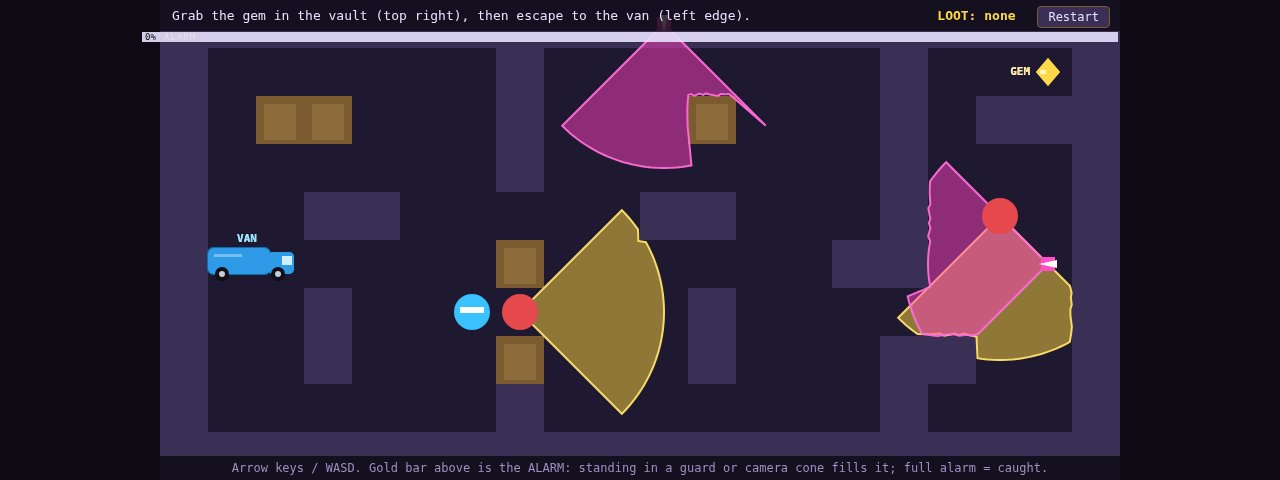
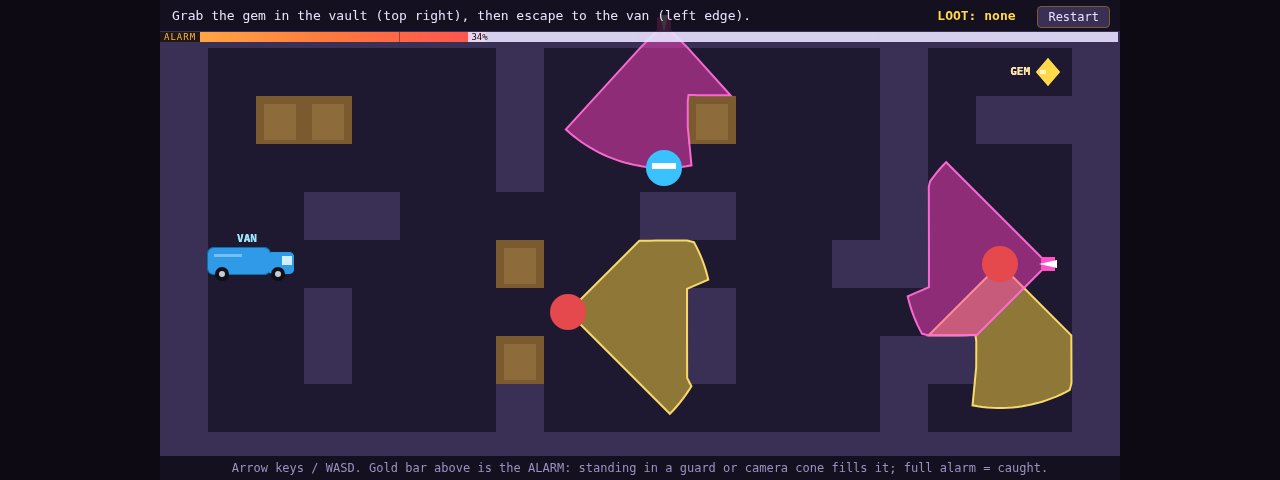
Heist entry: supercover LOS (wall-corner sightlines blocked), 2-play alarm frame at 34% in camera cone, win overlay click-through

diff --git a/game/game.js b/game/game.js
@@ -61,9 +61,8 @@
   // row 6 (the middle corridor); guard 1 loops the right chamber.
   // Each guard's start facing (set in reset()) points down an open
   // stretch, so its cone reads as a full fan in every screenshot.
-  // The play shot runs 13 successful moves (2 of its 15 scripted moves
-  // are blocked by a wall), so both routes are tuned so the guards show
-  // a full fan after exactly 13 steps without spotting the player.
+  // The play shot runs 14 successful moves; the guards end mid-patrol
+  // with full fans, and the thief ends inside the top camera's cone.
   var guards = [
     { wx: [4, 9], wy: [6, 6], idx: 0, x: 4, y: 6, dir: 'right' },
     { wx: [17, 18, 17], wy: [3, 3, 7], idx: 0, x: 17, y: 3, dir: 'down' }
@@ -102,15 +101,56 @@ function reset(keepStatus) {
   }
 
   // Vision cone: for watcher at (wx,wy) facing cardinal dir, return set of cone tile keys.
-  function lineBlocked(x0, y0, x1, y1) {
-    var dx = Math.sign(x1 - x0), dy = Math.sign(y1 - y0);
-    var cx = x0, cy = y0;
-    while (cx !== x1 || cy !== y1) {
-      if (cx !== x0 || cy !== y0) { if (blocksLOS(cx, cy)) return true; }
-      if (cx !== x1) cx += dx;
-      if (cy !== y1) cy += dy;
+  // Supercover line of sight, shared by detection (lineBlocked) and the
+  // drawn fan (rayEnd) so the two agree by construction. walkLOS walks a
+  // ray cell by cell (Amanatides-Woo DDA) from (px,py) along (dx,dy) up to
+  // maxDist tile units; visit(cells, t) gets the cells entered at each
+  // step -- one cell, or three at an exact grid corner (the two side cells
+  // plus the diagonal cell). A wall/crate touching the line at a corner
+  // blocks sight, which the old diagonal-only sampling missed: it walked
+  // (4,6)->(3,5)->(2,5) and never saw the wall at (3,6) that the true
+  // centre-to-centre line crosses. Returning false from visit stops the
+  // walk; walkLOS returns the distance at which it stopped, or maxDist.
+  function walkLOS(px, py, dx, dy, maxDist, visit) {
+    var cx = Math.floor(px), cy = Math.floor(py);
+    var stepX = dx > 0 ? 1 : -1, stepY = dy > 0 ? 1 : -1;
+    var tDeltaX = dx !== 0 ? Math.abs(1 / dx) : Infinity;
+    var tDeltaY = dy !== 0 ? Math.abs(1 / dy) : Infinity;
+    var tMaxX = dx > 0 ? (cx + 1 - px) / dx : dx < 0 ? (cx - px) / dx : Infinity;
+    var tMaxY = dy > 0 ? (cy + 1 - py) / dy : dy < 0 ? (cy - py) / dy : Infinity;
+    var EPS = 1e-9, t = 0;
+    while (t < maxDist) {
+      var tN = Math.min(tMaxX, tMaxY);
+      if (tN > maxDist || tN === Infinity) break;
+      if (Math.abs(tMaxX - tMaxY) <= EPS) {
+        var cells = [[cx + stepX, cy], [cx, cy + stepY], [cx + stepX, cy + stepY]];
+        t = tN; tMaxX += tDeltaX; tMaxY += tDeltaY;
+        cx += stepX; cy += stepY;
+        if (visit(cells, t) === false) return t;
+      } else if (tMaxX < tMaxY) {
+        cx += stepX; t = tMaxX; tMaxX += tDeltaX;
+        if (visit([[cx, cy]], t) === false) return t;
+      } else {
+        cy += stepY; t = tMaxY; tMaxY += tDeltaY;
+        if (visit([[cx, cy]], t) === false) return t;
+      }
     }
-    return false;
+    return maxDist;
+  }
+  function lineBlocked(x0, y0, x1, y1) {
+    var dx = x1 - x0, dy = y1 - y0;
+    var dist = Math.sqrt(dx * dx + dy * dy);
+    // Normalised direction so walkLOS's t is in tile units and the segment
+    // ends at t == dist (the target centre).
+    var stopped = walkLOS(x0 + 0.5, y0 + 0.5, dx / dist, dy / dist, dist, function (cells) {
+      for (var i = 0; i < cells.length; i++) {
+        var c = cells[i];
+        if (c[0] === x1 && c[1] === y1) continue; // the target tile never blocks
+        if (blocksLOS(c[0], c[1])) return false;
+      }
+      return true;
+    });
+    return stopped < dist;
   }
   function coneOf(wx, wy, dir) {
     var d = DIRS[dir];
@@ -218,11 +258,11 @@ statusText = 'Grab the gem in the vault (top right), then escape to the van (lef
   // Vision-cone fan: one true sector per watcher, built by raycasting.
   // Each ray starts at the watcher centre, runs along the facing
   // direction +/-45 degrees (90 degrees total), and stops at the
-  // 3-tile detection radius or at the first wall / crate tile
-  // (blocksLOS). Ray endpoints joined in order give a sector whose
-  // outer edge is a natural arc (2-degree steps). Detection (coneOf)
-  // uses the same +/-45-degree rule (|cross| <= dot), so the drawn
-  // fan and the alarm zone now match.
+  // 3-tile detection radius or at the first wall / crate tile. The ray
+  // marches with the same supercover walkLOS as detection (lineBlocked),
+  // corners included, so the drawn fan and the alarm zone are cut by the
+  // same rule. Detection (coneOf) uses the same +/-45-degree rule
+  // (|cross| <= dot).
   function dirAngle(dir) {
     if (dir === 'right') return 0;
     if (dir === 'down') return Math.PI / 2;
@@ -230,17 +270,20 @@ statusText = 'Grab the gem in the vault (top right), then escape to the van (lef
     return -Math.PI / 2;
   }
   function rayEnd(cx, cy, ang, wx, wy) {
-    var R = 3 * TILE, STEP = 3;
+    // Same supercover traversal as detection (lineBlocked): the ray stops
+    // at the first wall/crate cell it touches, corners included, so the
+    // drawn sector and the alarm zone are cut by the same rule.
     var dx = Math.cos(ang), dy = Math.sin(ang);
-    var px = cx, py = cy, t;
-    for (t = STEP; t <= R; t += STEP) {
-      var nx = cx + dx * t, ny = cy + dy * t;
-      var tx = Math.floor(nx / TILE), ty = Math.floor(ny / TILE);
-      if (tx < 0 || ty < 0 || tx >= W || ty >= H) break;
-      if ((tx !== wx || ty !== wy) && blocksLOS(tx, ty)) break;
-      px = nx; py = ny;
-    }
-    return { x: px, y: py };
+    var stopped = walkLOS(cx / TILE, cy / TILE, dx, dy, 3, function (cells) {
+      for (var i = 0; i < cells.length; i++) {
+        var c = cells[i];
+        if (c[0] === wx && c[1] === wy) continue; // the watcher tile never blocks
+        if (blocksLOS(c[0], c[1])) return false;
+      }
+      return true;
+    });
+    var d = stopped >= 3 ? 3 : Math.max(0, stopped - 0.02);
+    return { x: cx + dx * d * TILE, y: cy + dy * d * TILE };
   }
   function drawConeFan(cn) {
     var cx = cn.x * TILE + TILE / 2, cy = cn.y * TILE + TILE / 2;
@@ -335,7 +378,9 @@ statusText = 'Grab the gem in the vault (top right), then escape to the van (lef
       barEl.style.background = 'linear-gradient(90deg,#ffb347,#ff7a3c,#ff5050)';
     }
     pctEl.textContent = Math.round(alarm) + '%';
-    pctEl.style.left = (960 * (alarm / 100) - 18) + 'px';
+    // Keep the readout inside the bar: at 0% it used to sit at -18px, on top
+    // of the ALARM label. Clamp it right of the label and inside the bar.
+    pctEl.style.left = Math.min(Math.max(44, 960 * (alarm / 100) - 18), 926) + 'px';
   }
 
   function drawGem(x, y) {
@@ -450,9 +495,12 @@ statusText = 'Grab the gem in the vault (top right), then escape to the van (lef
   }
   function runPlayShot() {
     reset(false);
-    // scripted sequence ending with the player alive, mid-level, near a crate,
-    // a guard cone and a camera cone visible nearby but not spotting the player.
-    var seq = ['up','up','up','up','up','right','right','right','right','right','right','right','down','down','down'];
+    // Scripted sequence (14 successful moves): the thief slips up the left
+    // edge, crosses the middle corridor (a guard spots him at step 7, the
+    // alarm decays as he breaks away), and ends at (10,3) inside the top
+    // camera's downward cone with the alarm at 34% -- thief and pink cone
+    // in the same frame, a guard cone visible just below him.
+    var seq = ['up','up','up','right','right','right','right','up','right','right','right','up','right','right'];
     for (var i = 0; i < seq.length; i++) move(seq[i]);
     justCaught = false;
     draw();
@@ -484,6 +532,10 @@ statusText = 'Grab the gem in the vault (top right), then escape to the van (lef
     },
     findCrateCover: function () {
       var dirs4 = ['right', 'down', 'left', 'up'];
+      // Only tiles that are out of every cone RIGHT NOW count: the search
+      // below looks at hypothetical patrol positions, and a tile occluded
+      // from one of those can still be visible from the current position.
+      var now = allCones();
       // guard positions across their patrol loop
       var guardPos = [];
       for (var gi = 0; gi < guards.length; gi++) {
@@ -507,7 +559,7 @@ statusText = 'Grab the gem in the vault (top right), then escape to the van (lef
             var tx = wpx + ox, ty = wpy + oy;
             if (tx < 0 || ty < 0 || tx >= W || ty >= H) continue;
             if (grid[ty][tx] !== '.') continue;
-            if (blockedByCrate(wpx, wpy, tx, ty)) return { x: tx, y: ty, gx: wpx, gy: wpy };
+            if (blockedByCrate(wpx, wpy, tx, ty) && !inAnyCone(now, tx, ty)) return { x: tx, y: ty, gx: wpx, gy: wpy };
           }
         }
       }
@@ -526,7 +578,7 @@ statusText = 'Grab the gem in the vault (top right), then escape to the van (lef
             var tx2 = cm.x + ox2, ty2 = cm.y + oy2;
             if (tx2 < 0 || ty2 < 0 || tx2 >= W || ty2 >= H) continue;
             if (grid[ty2][tx2] !== '.') continue;
-            if (blockedByCrate(cm.x, cm.y, tx2, ty2)) return { x: tx2, y: ty2, gx: cm.x, gy: cm.y };
+            if (blockedByCrate(cm.x, cm.y, tx2, ty2) && !inAnyCone(now, tx2, ty2)) return { x: tx2, y: ty2, gx: cm.x, gy: cm.y };
           }
         }
       }
@@ -536,18 +588,35 @@ statusText = 'Grab the gem in the vault (top right), then escape to the van (lef
     patrols: function () { return guards.map(function (g) { return { wx: g.wx.slice(), wy: g.wy.slice() }; }); },
     solid: function (x, y) { return solidAt(x, y); },
     los: function (x0, y0, x1, y1) { return lineBlocked(x0, y0, x1, y1); },
+    fanRay: function (wx, wy, deg) {
+      var p = rayEnd(wx * TILE + TILE / 2, wy * TILE + TILE / 2, deg * Math.PI / 180, wx, wy);
+      return { x: p.x, y: p.y };
+    },
     applyAlarm: function () { var r = applyAlarm(); draw(); return r; } };
   function blockedByCrate(x0, y0, x1, y1) {
-    var dx = Math.sign(x1 - x0), dy = Math.sign(y1 - y0);
-    var cx = x0, cy = y0;
-    while (cx !== x1 || cy !== y1) {
-      if (cx !== x0 || cy !== y0) {
-        if (grid[cy][cx] === 'C') return true;
-        if (grid[cy][cx] === '#') return false;
+    // Same supercover walk as lineBlocked: true when the first thing the
+    // sightline touches is a crate (a wall first means the crate behind it
+    // is not the cover; a wall and a crate touching the same corner count
+    // as the wall winning).
+    var dx = x1 - x0, dy = y1 - y0;
+    var dist = Math.sqrt(dx * dx + dy * dy);
+    var found = false;
+    walkLOS(x0 + 0.5, y0 + 0.5, dx / dist, dy / dist, dist, function (cells) {
+      // A wall (or the map edge) anywhere in this step wins over a crate
+      // in the same step.
+      for (var i = 0; i < cells.length; i++) {
+        var c = cells[i];
+        if (c[0] === x1 && c[1] === y1) continue;
+        if (!grid[c[1]] || grid[c[1]][c[0]] === undefined) return false;
+        if (grid[c[1]][c[0]] === '#') return false;
       }
-      if (cx !== x1) cx += dx;
-      if (cy !== y1) cy += dy;
-    }
-    return false;
+      for (var j = 0; j < cells.length; j++) {
+        var d = cells[j];
+        if (d[0] === x1 && d[1] === y1) continue;
+        if (grid[d[1]] && grid[d[1]][d[0]] === 'C') { found = true; return false; }
+      }
+      return true;
+    });
+    return found;
   }
 })();

diff --git a/game/index.html b/game/index.html
@@ -36,7 +36,8 @@
     border-top:1px solid #3a2f55;z-index:5;}
   #win{position:absolute;left:0;top:0;width:960px;height:480px;display:none;
     background:rgba(10,8,16,.72);color:#2fce6b;font-size:40px;font-weight:bold;
-    align-items:center;justify-content:center;text-align:center;z-index:8;letter-spacing:1px;}
+    align-items:center;justify-content:center;text-align:center;z-index:8;letter-spacing:1px;
+    pointer-events:none;}
 </style>
 </head>
 <body>
